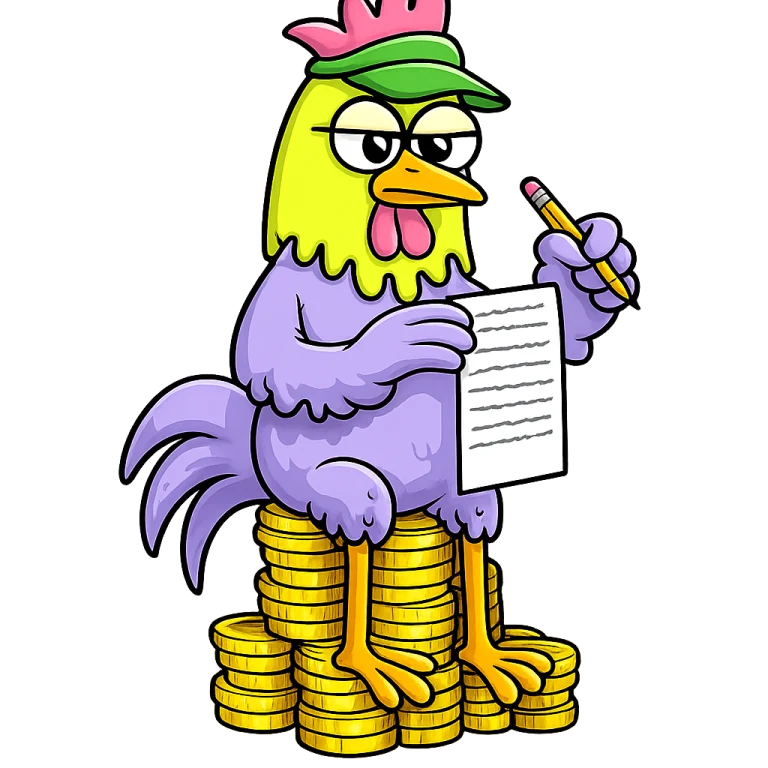
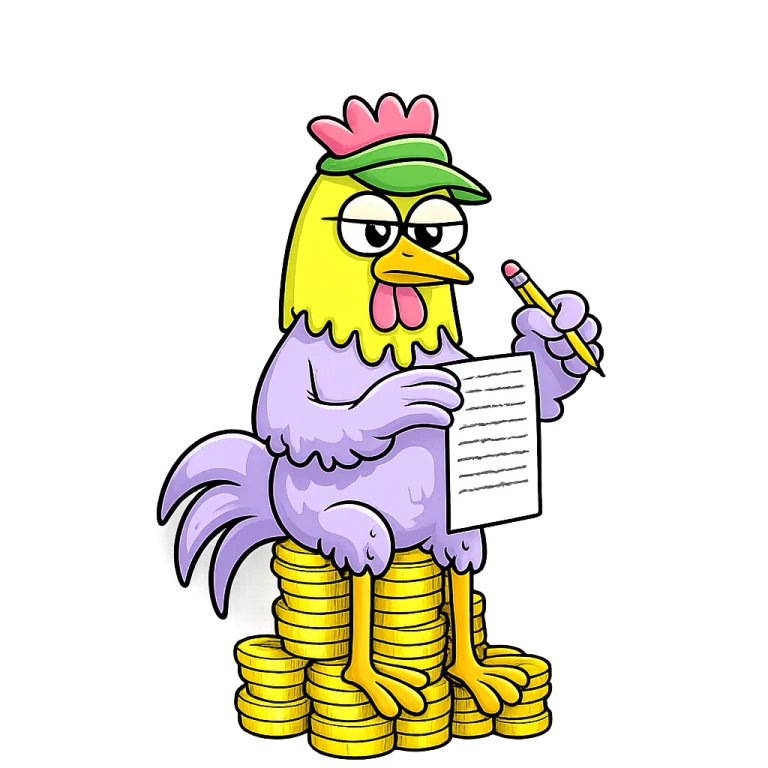
Mascot: whole comb in frame, rooster no longer sways

diff --git a/index.html b/index.html
@@ -87,12 +87,12 @@
   .btn svg { width: 16px; height: 16px; }
 
   /* hero */
-  .hero { margin-top: 20px; padding: 28px; display: grid; grid-template-columns: minmax(0,1fr) 300px; gap: 24px; align-items: center; overflow: hidden; }
+  .hero { margin-top: 20px; padding: 28px; display: grid; grid-template-columns: minmax(0,1fr) 330px; gap: 24px; align-items: center; overflow: hidden; }
   .hero-main { display: grid; gap: 18px; min-width: 0; }
   .hero-art { align-self: stretch; display: grid; place-items: center; }
-  .mascot { width: 300px; height: auto; aspect-ratio: 1; display: block; overflow: visible; transform-origin: 50% 95%; animation: sway 4.2s ease-in-out infinite; }
+  .mascot { width: 330px; height: auto; aspect-ratio: 1; display: block; overflow: visible; } /* the rooster itself stays still: only his pencil hand and the receipt move */
   /* the pencil hand: an idle tap now and then, fast scribbling while the scan runs */
-  .mascot .hand { transform-box: view-box; transform-origin: 772px 442px; animation: tap 3.2s ease-in-out infinite; }
+  .mascot .hand { transform-box: view-box; transform-origin: 735px 524px; animation: tap 3.2s ease-in-out infinite; }
   @keyframes tap { 0%, 70%, 100% { transform: none; } 76% { transform: rotate(-6deg); } 82% { transform: rotate(2deg); } 88% { transform: rotate(-4deg); } 94% { transform: none; } }
   :root[data-loading] .mascot .hand { animation: scribble .34s ease-in-out infinite alternate; }
   @keyframes scribble { 0% { transform: rotate(-8deg) translate(-3px, 2px); } 50% { transform: rotate(1deg) translate(3px, -2px); } 100% { transform: rotate(-4deg) translate(-1px, 4px); } }
@@ -101,14 +101,8 @@
   .mascot .ink { stroke: #6f6f6f; stroke-width: 6; stroke-linecap: round; fill: none; }
   .mascot .fold { fill: #fff; stroke: #111; stroke-width: 7; stroke-linejoin: round; transform-box: fill-box; transform-origin: 50% 100%; animation: fold .35s cubic-bezier(.2,1.6,.4,1) both; }
   @keyframes fold { from { transform: scale(.6, .2); opacity: 0; } to { transform: none; opacity: 1; } }
-  /* at rest the rooster sways a little; while trades are read it trembles; when the total lands it hops */
-  @keyframes sway { 0%, 100% { transform: rotate(-2deg); } 50% { transform: rotate(2deg) translateY(-4px); } }
-  :root[data-loading] .mascot { animation: bob .9s ease-in-out infinite; }
-  @keyframes bob { 0%, 100% { transform: none; } 50% { transform: translateY(-3px) rotate(-.6deg); } }
-  .mascot.hop { animation: hop .7s cubic-bezier(.3,1.6,.5,1), sway 4.2s ease-in-out .7s infinite; }
-  @keyframes hop { 0% { transform: none; } 35% { transform: translateY(-18px) rotate(-4deg); } 70% { transform: translateY(0) scale(1.03, .97); } 100% { transform: none; } }
-  @media (max-width: 860px) { .hero { grid-template-columns: minmax(0,1fr) 220px; } .mascot { width: 220px; } }
-  @media (max-width: 640px) { .hero { grid-template-columns: minmax(0,1fr); } .hero-art { order: -1; margin: -8px 0 -14px; } .mascot { width: 170px; } }
+  @media (max-width: 860px) { .hero { grid-template-columns: minmax(0,1fr) 240px; } .mascot { width: 240px; } }
+  @media (max-width: 640px) { .hero { grid-template-columns: minmax(0,1fr); } .hero-art { order: -1; margin: -14px 0 -14px; } .mascot { width: 200px; } }
   h1 { font-size: clamp(28px, 4.6vw, 42px); line-height: 1.08; font-weight: 700; letter-spacing: -.02em; text-wrap: balance; max-width: 18ch; }
   h1 em { font-style: normal; color: var(--pink-text); }
   .lede { font-size: 15px; color: var(--ink-2); max-width: 56ch; }
@@ -314,12 +308,12 @@
       <!-- the accountant: the base picture minus his pencil hand, the receipt tape drawn on top (it grows with the scan), then the hand on its own so it can write -->
       <svg class="mascot" viewBox="0 0 1024 1024">
         <defs>
-          <clipPath id="noHand"><path clip-rule="evenodd" d="M0 0H1024V1024H0Z M685 222 L872 222 L872 432 L792 442 L752 442 L752 379 L712 376 L685 300 Z"/></clipPath>
-          <clipPath id="handOnly"><path d="M682 219 L875 219 L875 435 L793 445 L749 445 L749 382 L712 379 L682 300 Z"/></clipPath>
+          <clipPath id="noHand"><path clip-rule="evenodd" transform="translate(72 144) scale(.859375)" d="M-84 -168H1108V1024H-84Z M685 222 L872 222 L872 432 L792 442 L752 442 L752 379 L712 376 L685 300 Z"/></clipPath>
+          <clipPath id="handOnly"><path transform="translate(72 144) scale(.859375)" d="M682 219 L875 219 L875 435 L793 445 L749 445 L749 380 L712 378 L682 300 Z"/></clipPath>
         </defs>
         <image href="mascot/accountant.webp" width="1024" height="1024" clip-path="url(#noHand)"/>
-        <g id="pile"></g>
-        <g id="tape"></g>
+        <!-- tape and pile are laid out in the picture's earlier 1024 px frame; the picture was shrunk into this one to fit the whole comb -->
+        <g transform="translate(72 144) scale(.859375)"><g id="pile"></g><g id="tape"></g></g>
         <g class="hand"><image href="mascot/accountant.webp" width="1024" height="1024" clip-path="url(#handOnly)"/></g>
       </svg>
     </div>
@@ -536,8 +530,6 @@ async function run(raw) {
     tape.progress(rows, Math.max(rows, 1));
     stopLoading();
     render(p, lists);
-    const m = document.querySelector(".mascot");
-    m.classList.remove("hop"); void m.offsetWidth; m.classList.add("hop");
   } catch (e) {
     if (id !== runId) return;
     if (!e.show) console.error("fee-tally", e);
